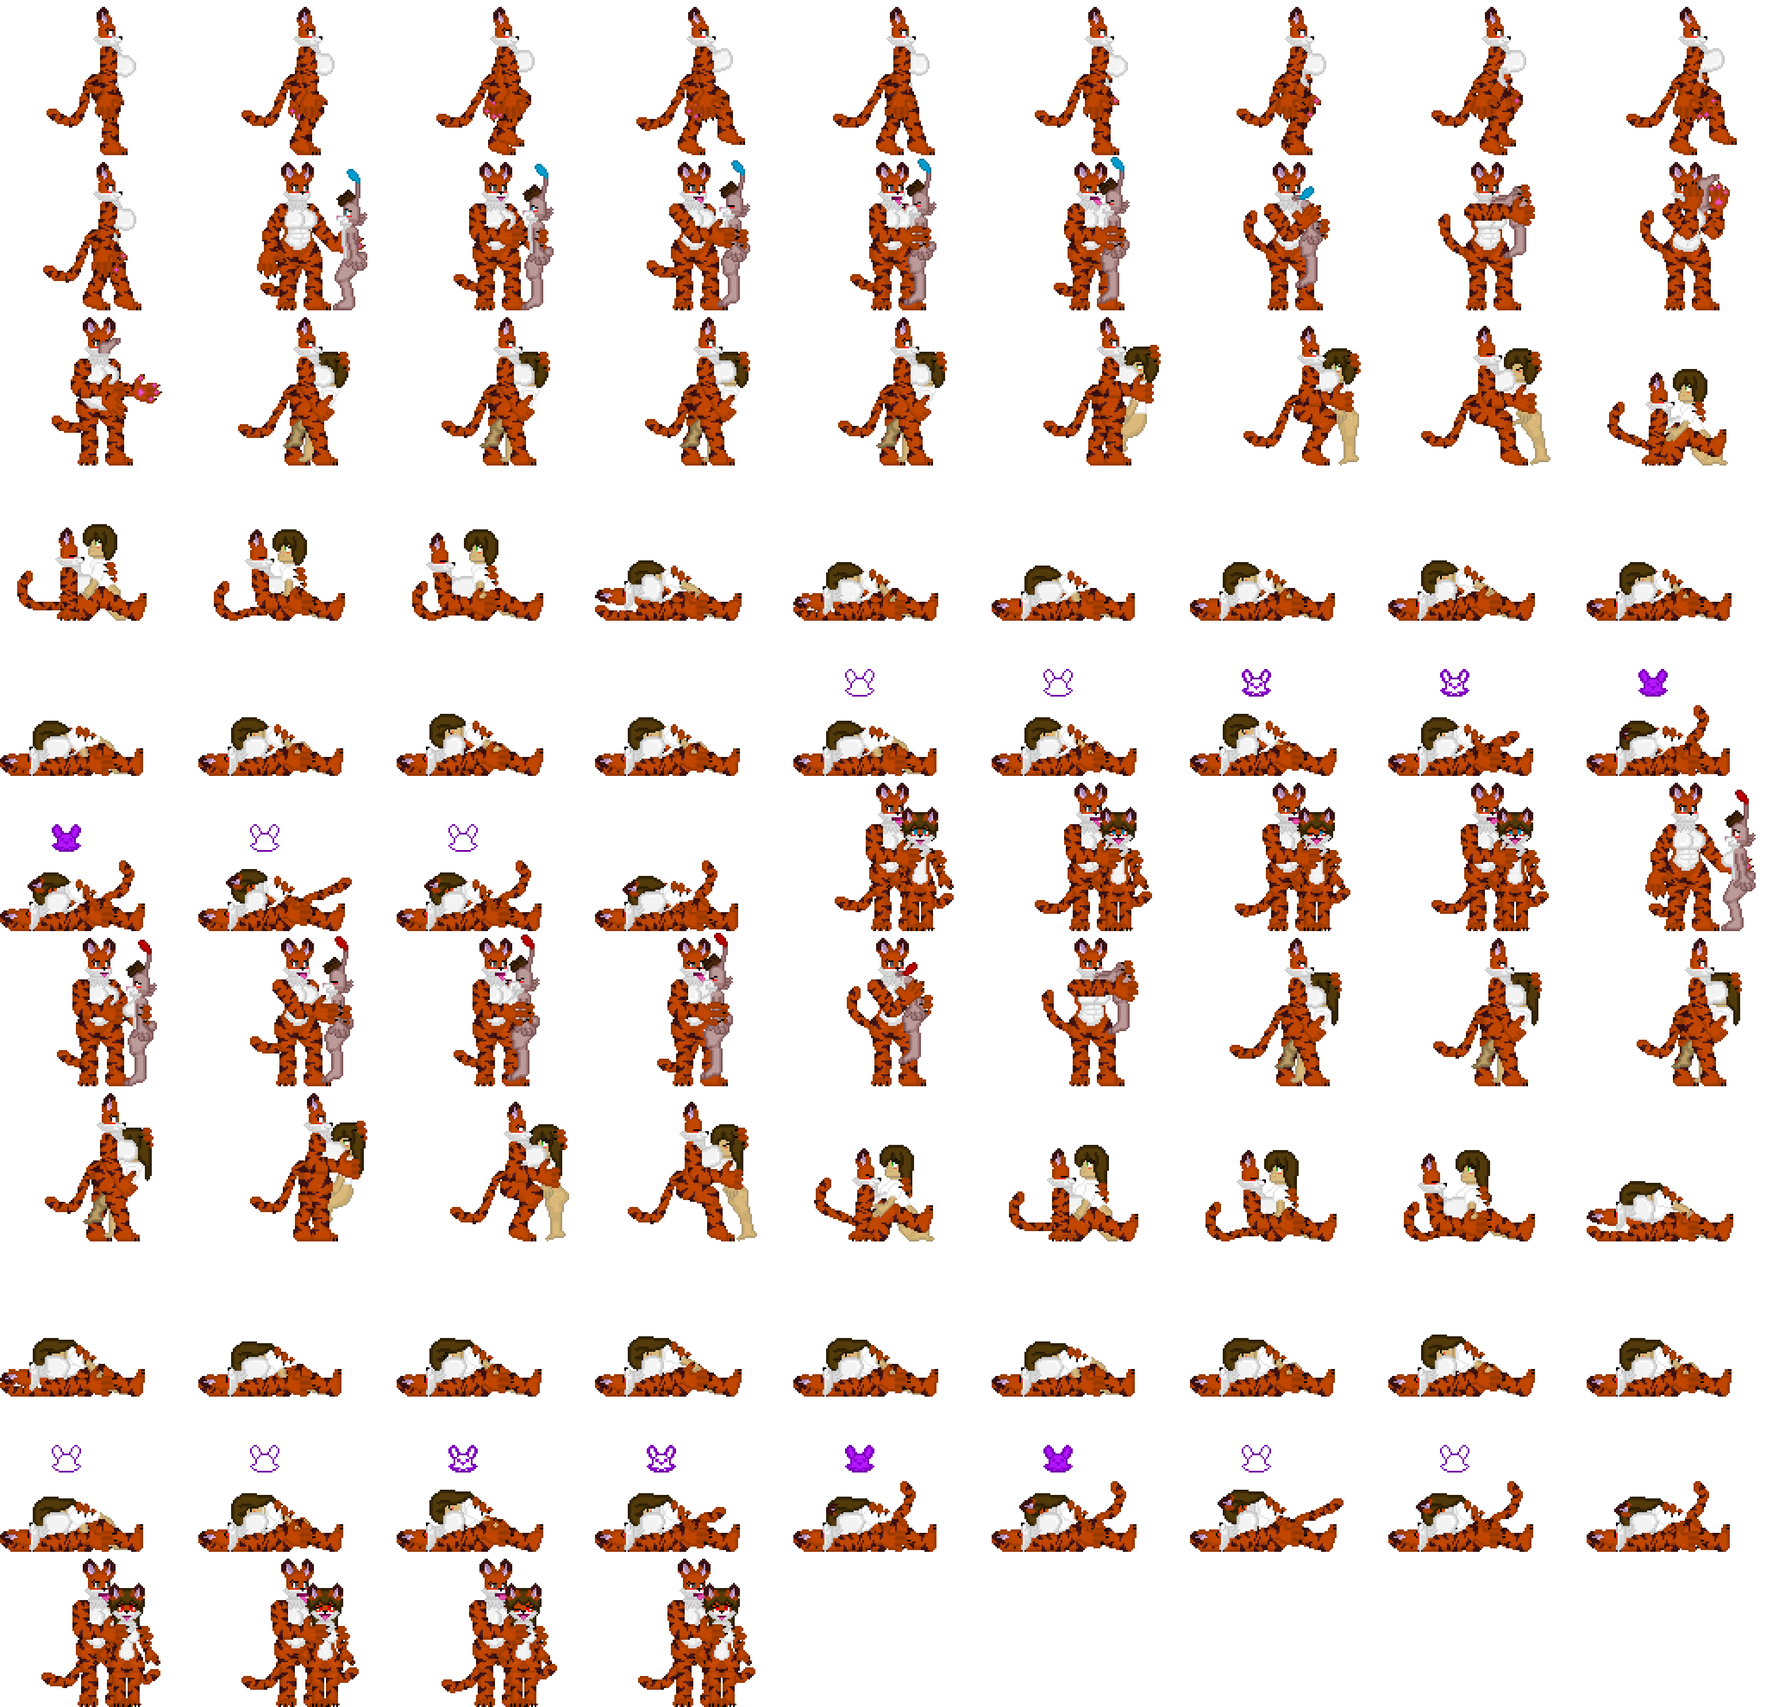
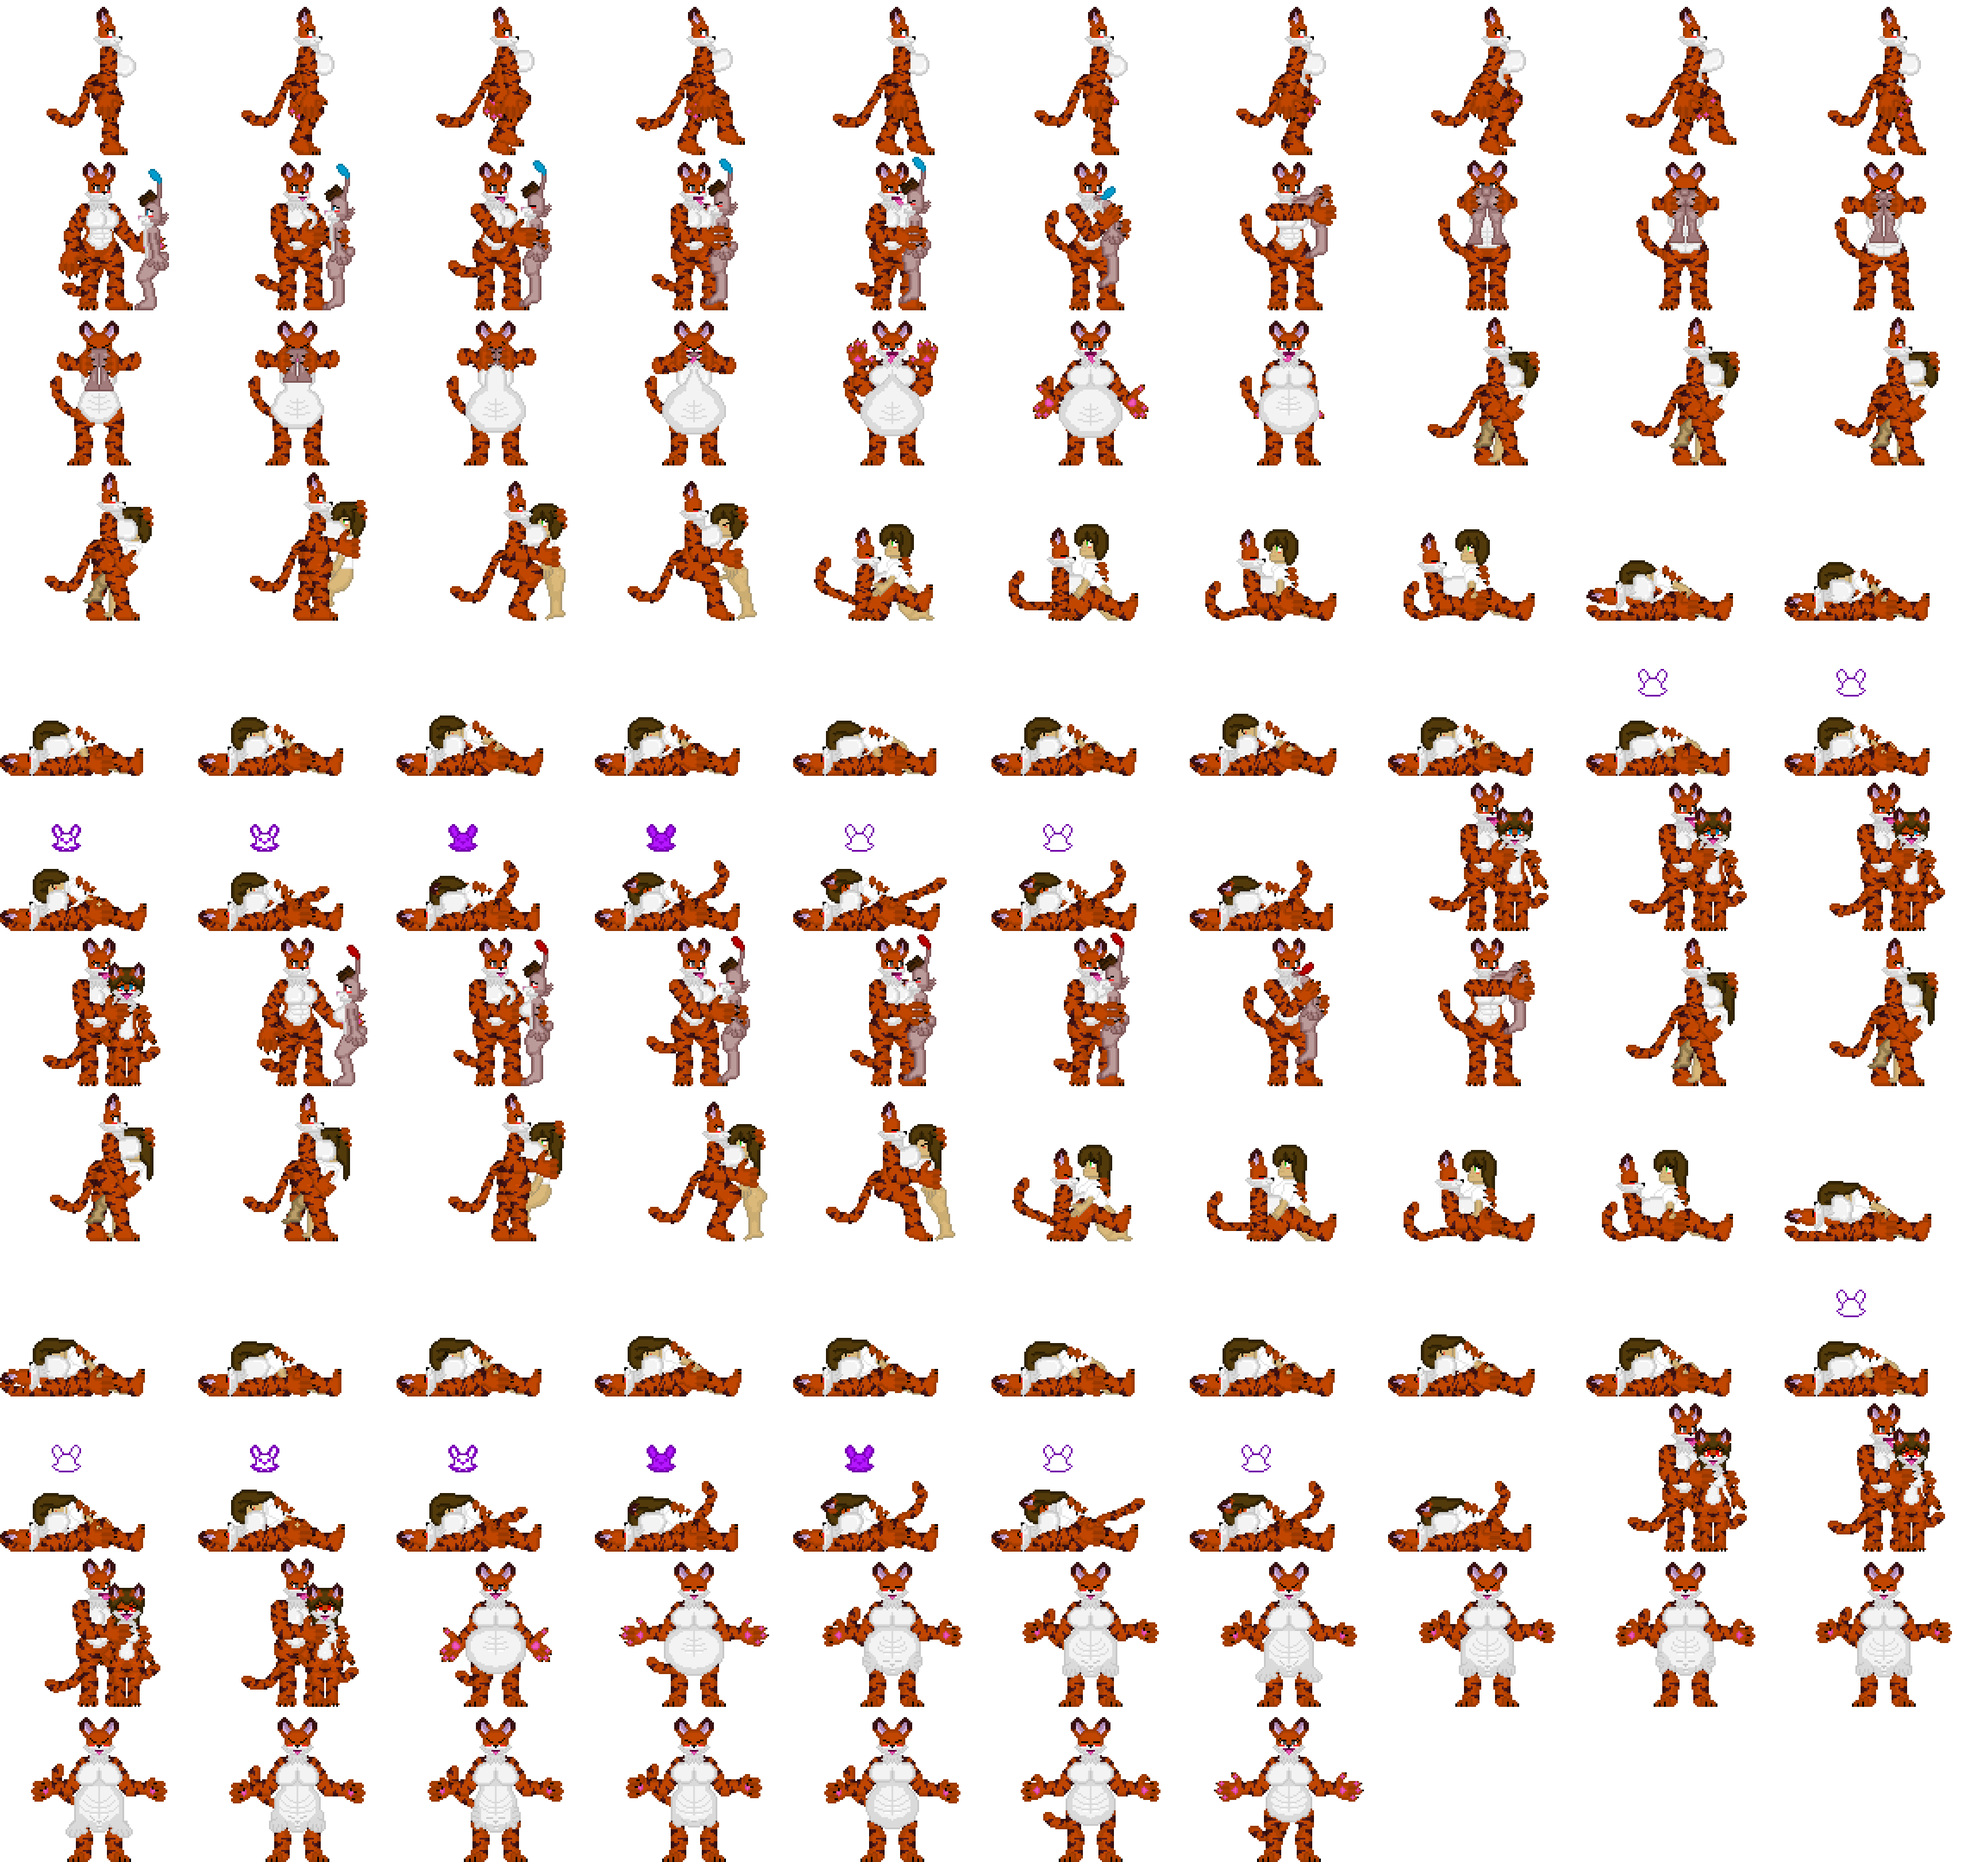
cleaned up tiger animations and added new sprites.

diff --git a/scripts/enemyScripts/tiger.js b/scripts/enemyScripts/tiger.js
@@ -70,39 +70,39 @@ class tiger extends enemy {
         //adding enemy sprite extension to prevent loading issues.
         this.anims.create({ key: 'tigerWalkBigBooba', frames: this.anims.generateFrameNames('tigerFemaleExtension', { start: 0, end: 9 }), frameRate: 9, repeat: -1 });
         this.anims.create({ key: 'tigerSwallowMaleRabbit', frames: this.anims.generateFrameNames('tigerFemaleExtension', { start: 10, end: 16 }), frameRate: 12, repeat: 0 });
-        this.anims.create({ key: 'tigerSwallowFemaleRabbit', frames: this.anims.generateFrameNames('tigerFemaleExtension', { start: 53, end: 59 }), frameRate: 12, repeat: 0 });
-        this.anims.create({ key: 'tigerSwallowRabbitMiddle', frames: this.anims.generateFrameNames('tigerFemaleExtension', { start: 17, end: 18 }), frameRate: 12, repeat: 0 });
+        this.anims.create({ key: 'tigerSwallowFemaleRabbit', frames: this.anims.generateFrameNames('tigerFemaleExtension', { start: 61, end: 67 }), frameRate: 12, repeat: 0 });
+        this.anims.create({ key: 'tigerSwallowRabbitMiddle', frames: this.anims.generateFrameNames('tigerFemaleExtension', { start: 17, end: 26 }), frameRate: 12, repeat: 0 });
+        this.anims.create({ key: 'tigerDigestRabbit', frames: this.anims.generateFrameNames('tigerFemaleExtension', { start: 102, end: 116 }), frameRate: 7, repeat: 0 });
         //male animations
         if (sex === 0) {
             this.anims.create({ key: 'tigerGrab', frames: this.anims.generateFrameNames('tigerFemale', { start: 46, end: 59 }), frameRate: 7, repeat: 0 });
             this.anims.create({ key: 'tigerStruggle', frames: this.anims.generateFrameNames('tigerFemale', { start: 60, end: 64 }), frameRate: 7, repeat: -1 });
             this.anims.create({ key: 'tigerSwallow1', frames: this.anims.generateFrameNames('tigerFemale', { start: 65, end: 71 }), frameRate: 7, repeat: 0 });
 
-            this.anims.create({ key: 'tigerBoobaGrab', frames: this.anims.generateFrameNames('tigerFemaleExtension', { start: 19, end: 22 }), frameRate: 7, repeat: -1 });
-            this.anims.create({ key: 'tigerBoobaLayDown', frames: this.anims.generateFrameNames('tigerFemaleExtension', { start: 23, end: 31 }), frameRate: 7, repeat: 0 });
-            this.anims.create({ key: 'tigerBoobaSnuggle', frames: this.anims.generateFrameNames('tigerFemaleExtension', { start: 32, end: 35 }), frameRate: 7, repeat: -1 });
-            this.anims.create({ key: 'tigerBoobaHump1', frames: this.anims.generateFrameNames('tigerFemaleExtension', { start: 36, end: 39 }), frameRate: 7, repeat: -1 });
-            this.anims.create({ key: 'tigerBoobaHump2', frames: this.anims.generateFrameNames('tigerFemaleExtension', { start: 36, end: 39 }), frameRate: 12, repeat: -1 });
-            this.anims.create({ key: 'tigerBoobaCurse', frames: this.anims.generateFrameNames('tigerFemaleExtension', { start: 40, end: 48 }), frameRate: 7, repeat: 0 });
-            this.anims.create({ key: 'tigerCubGameover', frames: this.anims.generateFrameNames('tigerFemaleExtension', { start: 49, end: 52 }), frameRate: 7, repeat: -1 });
+            this.anims.create({ key: 'tigerBoobaGrab', frames: this.anims.generateFrameNames('tigerFemaleExtension', { start: 28, end: 31 }), frameRate: 7, repeat: -1 });
+            this.anims.create({ key: 'tigerBoobaLayDown', frames: this.anims.generateFrameNames('tigerFemaleExtension', { start: 32, end: 40 }), frameRate: 7, repeat: 0 });
+            this.anims.create({ key: 'tigerBoobaSnuggle', frames: this.anims.generateFrameNames('tigerFemaleExtension', { start: 41, end: 43 }), frameRate: 7, repeat: -1 });
+            this.anims.create({ key: 'tigerBoobaHump1', frames: this.anims.generateFrameNames('tigerFemaleExtension', { start: 44, end: 47 }), frameRate: 7, repeat: -1 });
+            this.anims.create({ key: 'tigerBoobaHump2', frames: this.anims.generateFrameNames('tigerFemaleExtension', { start: 44, end: 47 }), frameRate: 12, repeat: -1 });
+            this.anims.create({ key: 'tigerBoobaCurse', frames: this.anims.generateFrameNames('tigerFemaleExtension', { start: 48, end: 56 }), frameRate: 7, repeat: 0 });
+            this.anims.create({ key: 'tigerCubGameover', frames: this.anims.generateFrameNames('tigerFemaleExtension', { start: 57, end: 62 }), frameRate: 7, repeat: -1 });
         //female animations    
         } else if(sex === 1) {
             this.anims.create({ key: 'tigerGrab', frames: this.anims.generateFrameNames('tigerFemale', { start: 72, end: 85 }), frameRate: 7, repeat: 0 });
             this.anims.create({ key: 'tigerStruggle', frames: this.anims.generateFrameNames('tigerFemale', { start: 86, end: 89 }), frameRate: 7, repeat: -1 });
             this.anims.create({ key: 'tigerSwallow1', frames: this.anims.generateFrameNames('tigerFemale', { start: 90, end: 97 }), frameRate: 7, repeat: 0 });
 
-            this.anims.create({ key: 'tigerBoobaGrab', frames: this.anims.generateFrameNames('tigerFemaleExtension', { start: 60, end: 63 }), frameRate: 7, repeat: -1 });
-            this.anims.create({ key: 'tigerBoobaLayDown', frames: this.anims.generateFrameNames('tigerFemaleExtension', { start: 64, end: 72 }), frameRate: 7, repeat: 0 });
-            this.anims.create({ key: 'tigerBoobaSnuggle', frames: this.anims.generateFrameNames('tigerFemaleExtension', { start: 73, end: 76 }), frameRate: 7, repeat: -1 });
-            this.anims.create({ key: 'tigerBoobaHump1', frames: this.anims.generateFrameNames('tigerFemaleExtension', { start: 77, end: 80 }), frameRate: 7, repeat: -1 });
-            this.anims.create({ key: 'tigerBoobaHump2', frames: this.anims.generateFrameNames('tigerFemaleExtension', { start: 77, end: 80 }), frameRate: 12, repeat: -1 });
-            this.anims.create({ key: 'tigerBoobaCurse', frames: this.anims.generateFrameNames('tigerFemaleExtension', { start: 81, end: 89 }), frameRate: 7, repeat: 0 });
-            this.anims.create({ key: 'tigerCubGameover', frames: this.anims.generateFrameNames('tigerFemaleExtension', { start: 90, end: 93 }), frameRate: 7, repeat: -1 });
+            this.anims.create({ key: 'tigerBoobaGrab', frames: this.anims.generateFrameNames('tigerFemaleExtension', { start: 68, end: 71 }), frameRate: 7, repeat: -1 });
+            this.anims.create({ key: 'tigerBoobaLayDown', frames: this.anims.generateFrameNames('tigerFemaleExtension', { start: 72, end: 80 }), frameRate: 7, repeat: 0 });
+            this.anims.create({ key: 'tigerBoobaSnuggle', frames: this.anims.generateFrameNames('tigerFemaleExtension', { start: 81, end: 84 }), frameRate: 7, repeat: -1 });
+            this.anims.create({ key: 'tigerBoobaHump1', frames: this.anims.generateFrameNames('tigerFemaleExtension', { start: 85, end: 88 }), frameRate: 7, repeat: -1 });
+            this.anims.create({ key: 'tigerBoobaHump2', frames: this.anims.generateFrameNames('tigerFemaleExtension', { start: 85, end: 88 }), frameRate: 12, repeat: -1 });
+            this.anims.create({ key: 'tigerBoobaCurse', frames: this.anims.generateFrameNames('tigerFemaleExtension', { start: 89, end: 97 }), frameRate: 7, repeat: 0 });
+            this.anims.create({ key: 'tigerCubGameover', frames: this.anims.generateFrameNames('tigerFemaleExtension', { start: 98, end: 101 }), frameRate: 7, repeat: -1 });
         
         }
         //this.anims.create({ key: 'tigerStruggleBreakRight', frames: this.anims.generateFrameNames('tigerFemale', { start: 58, end: 62 }), frameRate: 7, repeat: -1 });
         this.anims.create({ key: 'tigerSwallow2', frames: this.anims.generateFrameNames('tigerFemale', { start: 98, end: 102 }), frameRate: 7, repeat: 0 });
-        this.anims.create({ key: 'tigerSwallowRabbitFinish', frames: this.anims.generateFrameNames('tigerFemale', { start: 99, end: 102 }), frameRate: 7, repeat: 0 });
 
         this.anims.create({ key: 'tigerTummyPush1', frames: this.anims.generateFrameNames('tigerFemale', { start: 103, end: 106 }), frameRate: 7, repeat: 0 });
         this.anims.create({ key: 'tigerTummyPush2', frames: this.anims.generateFrameNames('tigerFemale', { start: 107, end: 110 }), frameRate: 7, repeat: 0 });
@@ -423,7 +423,6 @@ class tiger extends enemy {
         this.anims.play(rabbitSexFlag).once('animationcomplete', () => {
             this.scene.initSoundEffect('swallowSFX','3',0.6);
             this.anims.play('tigerSwallowRabbitMiddle').once('animationcomplete', () => {
-                this.anims.play('tigerSwallowRabbitFinish').once('animationcomplete', () => {
                     this.scene.initSoundEffect('stomachSFX','6',0.1);
                     this.anims.play('tigerTummyWobble1').once('animationcomplete', () => {
                         this.scene.initSoundEffect('stomachSFX','6',0.1);
@@ -431,7 +430,7 @@ class tiger extends enemy {
                             this.scene.initSoundEffect('stomachSFX','8',0.5);
                             this.anims.play('tigerTummyRumble1').once('animationcomplete', () => {
                                 this.scene.initSoundEffect('stomachSFX','1',0.03);
-                                this.anims.play('tigerTummyDigestion1').once('animationcomplete', () => {
+                                this.anims.play('tigerDigestRabbit').once('animationcomplete', () => {
                                     this.scene.initSoundEffect('stomachSFX','2',0.03);
                                     this.anims.play('tigerTummyDigestion2').once('animationcomplete', () => {
 
@@ -447,7 +446,7 @@ class tiger extends enemy {
                             });
                         }); 
                     }); 
-                }); 
+                
             }); 
         });
     }

diff --git a/scripts/sceneScripts/levels/TestForest.js b/scripts/sceneScripts/levels/TestForest.js
@@ -98,6 +98,10 @@ class TestForest extends defaultScene {
       //this sets up the text box which will be used by the signs to display text.
       this.setUpTextBox();
 
+      this.initSigns(2997,1021+13,
+        "FEELINGS OF FEAR ARE POWERFUL TOOLS FOR DRIVING SOMEONE FORWARD. DONT LET YOUR NEGITIVE EMOTIONS HOLD YOU BACK. USE THEM AS A TOOL TO REACH YOUR DESIRES...  ",
+        ['signLoop']);
+
       /*this.skybackround = this.add.tileSprite(1500, 800, 8*1377,918, "backgroundForestStaticLevel");
       this.skybackround.setDepth(-51);
       this.skybackround.setTint(0xd3d3d3);*/
@@ -147,11 +151,8 @@ class TestForest extends defaultScene {
       let thisScene = this;
       setTimeout(function(){
           
-          //thisScene.initEnemy(1073, 893,thisScene.playerSex,'blueSlime');
-          //thisScene.initEnemy(1173, 893,thisScene.playerSex,'blueSlime');
-          
           thisScene.initEnemy(1356,1139,thisScene.playerSex,'tiger');
-          thisScene.initEnemy(1452,1120,thisScene.playerSex,'rabbit');
+          //thisScene.initEnemy(1452,1120,thisScene.playerSex,'rabbit');
           thisScene.initEnemy(3352,1220,thisScene.playerSex,'rabbit');
           thisScene.initEnemy(4587,1170,thisScene.playerSex,'rabbit');
           thisScene.initEnemy(4717,1170,thisScene.playerSex,'rabbit');

diff --git a/scripts/sceneScripts/levels/sunFlowerField.js b/scripts/sceneScripts/levels/sunFlowerField.js
@@ -117,6 +117,14 @@ class sunFlowerField extends defaultScene {
       //this sets up the text box which will be used by the signs to display text.
       this.setUpTextBox();
 
+      this.initSigns(4666,1725+13,
+        "WHAT DOES IT MEAN TO BE DRIVEN? EVERYDAY I FIND MY SELF CONTINUE TO FIGHTING, BUT A PART OF ME FEARS THAT I WONT LIVE UP TO THE EXPECTATION MY DESIRES HAVE SET.",
+        ['signLoop']);
+
+      this.initSigns(839,1789+13,
+          "WHAT DOES IT MEAN TO HAVE DESIRES? CAN A HEARTS WANTS BE MEASURED? CAN SOMEONES DESIRES BE OVER WRITTEN?",
+          ['signLoop']);
+
       this.skybackround = this.add.tileSprite(1500, -1300, 8*1024, 6*1024, "backgroundSkyLevel");
       this.skybackround.setDepth(-50);
       this.skybackround.setTint(0xd3d3d3);

diff --git a/scripts/titleScripts/titleScreen.js b/scripts/titleScripts/titleScreen.js
@@ -108,7 +108,7 @@ class titleScreen extends allSceneFunctions {
             this.elements = this.physics.add.group();
 
             //displays the current game version
-            this.version = new makeText(this,360*2,450*2,'charBubble',"ALPHA V0.24");
+            this.version = new makeText(this,360*2,450*2,'charBubble',"ALPHA V0.25");
             this.version.visible = true;
             this.version.setDepth(51);
             this.elements.add(this.version);

diff --git a/scripts/sceneScripts/levels/TestCave.js b/scripts/sceneScripts/levels/TestCave.js
@@ -91,10 +91,6 @@ class TestCave extends defaultScene {
       //this sets up the text box which will be used by the signs to display text.
       this.setUpTextBox();
 
-      this.initSigns(443,797+12,
-        "Why did I move here? I guess it was the weather. Or the... Ah, I don`t know, that thing.  ",
-        ['signLoop']);
-
       this.initSavePoints(687,765-14);
 
       this.initPortals(343,829-13,2566,1373,"warpCaveInside","ForestRavineHome");
